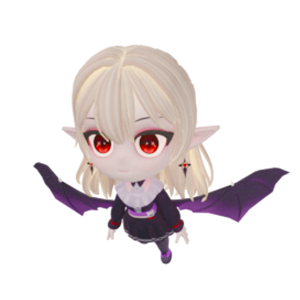
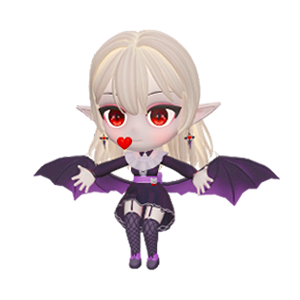
Fix model camera

Changed region(s): [[0.09, 0.09, 0.96, 0.9]]

diff --git a/src/ar/capture/World/Model.js b/src/ar/capture/World/Model.js
@@ -101,7 +101,7 @@ export default class Model
             this.model.position.x += deltaX * factor;
             this.model.position.y -= deltaY * factor; 
 
-            const rotationFactor = 0.002; // Adjust this value to change rotation sensitivity
+            const rotationFactor = 0.000; // Adjust this value to change rotation sensitivity
             this.model.rotation.y -= deltaX * rotationFactor;
             this.model.rotation.x -= deltaY * rotationFactor;
 

diff --git a/src/ar/capture/Camera.js b/src/ar/capture/Camera.js
@@ -17,8 +17,8 @@ export default class Camera
 
     setInstance()
     {
-        this.instance = new THREE.PerspectiveCamera(75, this.sizes.width / this.sizes.height, 0.1, 100)
-        this.instance.position.set(0, 2.3, 8)
+        this.instance = new THREE.OrthographicCamera(-5,5, 6, -6, 0.1, 100)
+        this.instance.position.set(0,2.3, 8)
         this.scene.add(this.instance)
     }
 
